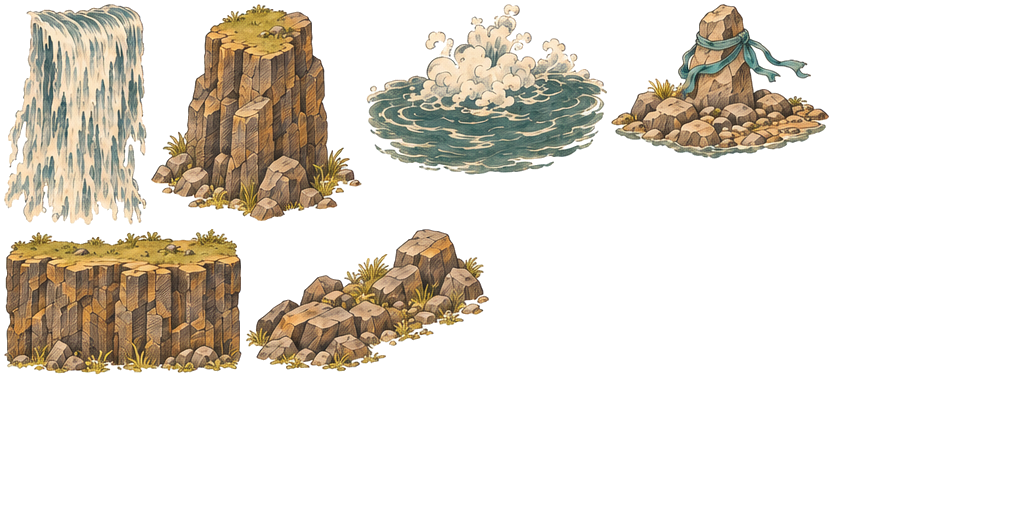
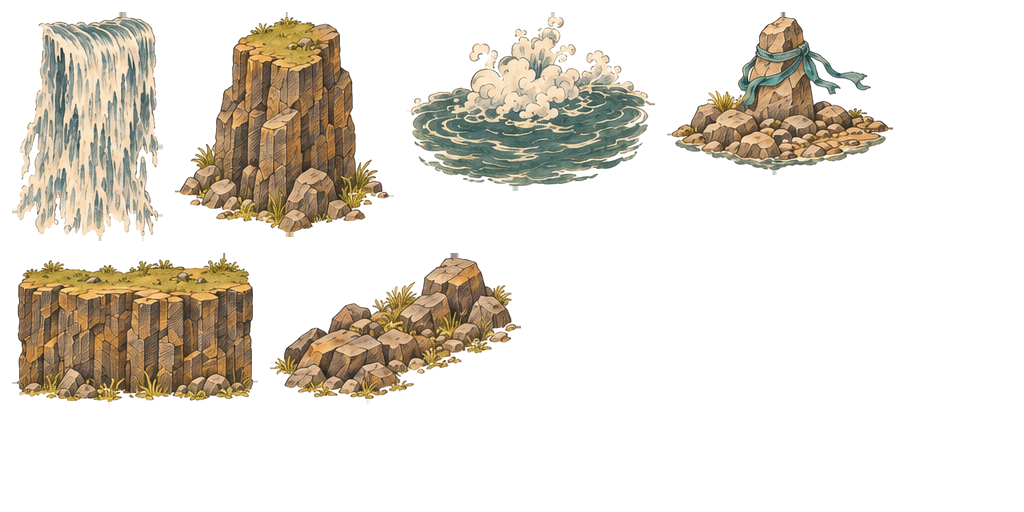
Share one mipmapped kit texture for Orkhon cliffs and cutouts; pad the kit atlas
bh-72 findings 7 and 10. Cliff walls sampled a second, unmipmapped copy of
the terrain kit atlas, so distant walls skipped texels and shimmered, and
the atlas was uploaded twice. Walls and the overlay's kit cutouts now share
one mipmapped, anisotropically filtered texture. Walls sample it with
gradients from the continuous distance along the outline (taken outside any
branch), so band restarts do not fall to a blurred mip level.

The kit atlas kept frames apart only to mip level 1 with 4-texel gutters.
It is repacked with 16 padding texels and 4 extruded (the layout of
atlas:assemble --padding 16 --extrude 4, now also what the cut script
writes); every frame's pixels are byte-identical, and re-running the cut
script reproduces the atlas and leaves every tile unchanged. atlas:orkhon
now passes mip-bleed to level 3; its white-fringe failure is the keying
job. Kit cutouts use alpha to coverage with alpha raised a quarter per mip
level, so thin parts keep their coverage at distance.

The fight at pixel ratio 2 stays about 3% slower than before the terrain
pass.

diff --git a/src/game/world3d/terrainShader.ts b/src/game/world3d/terrainShader.ts
@@ -144,8 +144,10 @@ export const ORKHON_SAMPLING = `
   uniform vec4 rampAxis[ORKHON_RAMPS]; uniform vec4 rampSize[ORKHON_RAMPS];
   // Authored cliffs repeat opaque basalt bands cut from the terrain kit's straight cliff run along
   // their outline. Each repeat picks a band, never mirrored, so the painted light stays upper left;
-  // the grass lip and inked column tops stay on top.
-  vec3 cliffFace(float along, float depth) {
+  // the grass lip and inked column tops stay on top. The kit texture is mipmapped; its sampling
+  // gradients come from the continuous along and depth (their screen derivatives, taken outside
+  // any branch), so a band restart does not drop to a blurred mip level.
+  vec3 cliffFace(float along, float depth, vec2 dAlong, vec2 dDepth) {
     float u=along/cliffPixel;
     float k=floor(u/cliffFaceWidth);
     float pick=fract(sin(k*12.9898+4.1)*43758.5453);
@@ -154,7 +156,9 @@ export const ORKHON_SAMPLING = `
     float x=u-k*cliffFaceWidth;
     float y=clamp(depth/cliffRise,0.0,1.0)*face.z;
     vec2 px=face.xy+vec2(clamp(x,0.5,cliffFaceWidth-0.5),clamp(y,0.5,face.z-0.5));
-    return texture2D(cliffAtlas,vec2(px.x/cliffAtlasSize.x,1.0-px.y/cliffAtlasSize.y)).rgb;
+    vec2 scale=vec2(1.0/cliffPixel,-face.z/cliffRise)/cliffAtlasSize;
+    return textureGrad(cliffAtlas,vec2(px.x/cliffAtlasSize.x,1.0-px.y/cliffAtlasSize.y),
+      vec2(dAlong.x,dDepth.x)*scale,vec2(dAlong.y,dDepth.y)*scale).rgb;
   }
   // Ramp flanks run their bands along the nearest ramp's own arc length (orkhonFlankAlong), so
   // the bands keep their painted width instead of shearing where the normal's dominant axis
@@ -169,6 +173,21 @@ export const ORKHON_SAMPLING = `
       along=(dot(vec2(-n.z,n.x),d)>=0.0?s:-s)+float(i)*397.0;
     }
     return along;
+  }
+  // Screen derivatives of a flank's along (orkhonFlankAlong): ± the ramp direction, or x or z.
+  vec2 orkhonFlankGradient(vec2 p, vec3 n, vec3 dx, vec3 dy, bool ramp) {
+    vec2 axis=step(abs(n.z),abs(n.x))>0.5?vec2(0.0,1.0):vec2(1.0,0.0);
+    if(ramp) {
+      float best=1e9;
+      for(int i=0;i<ORKHON_RAMPS;i++) {
+        vec2 q=p-rampAxis[i].xy; vec2 d=rampAxis[i].zw; float len=rampSize[i].x;
+        float s=dot(q,d), lateral=abs(dot(q,vec2(-d.y,d.x)));
+        if(lateral>rampSize[i].z+40.0 || s<-0.3*len || s>1.3*len || lateral>=best) continue;
+        best=lateral;
+        axis=dot(vec2(-n.z,n.x),d)>=0.0?d:-d;
+      }
+    }
+    return vec2(dot(dx.xz,axis),dot(dy.xz,axis));
   }
   // Per-pixel weights of valley grass, trail dirt, scree and straw (wA) and plateau moss (wMoss):
   // worn earth and dry-grass potential come from the baked ground mask; plateau tops from
@@ -265,6 +284,9 @@ export const ORKHON_SAMPLING = `
 
 export const ORKHON_COLOR = `
   vec3 n=normalize(worldNormal);
+  // Derivatives for the painted cliff bands, taken where every pixel of a quad runs them.
+  vec3 pointDx=dFdx(worldPoint), pointDy=dFdy(worldPoint);
+  vec2 faceDx=dFdx(materialB.xy), faceDy=dFdy(materialB.xy);
   if(worldDebug<=1) {
     vec3 surface;
     if(isWall==0) {
@@ -293,10 +315,13 @@ export const ORKHON_COLOR = `
       // Steep graded ground (ramp flanks) shows the same basalt bands as the plateau walls.
       if(n.y<0.75) {
         float along=mix(worldPoint.x,worldPoint.z,step(abs(n.z),abs(n.x)));
-        if(texture2D(groundMask,worldPoint.xz/worldSize).b>0.5) along=orkhonFlankAlong(worldPoint.xz,n,along);
-        surface=mix(surface,cliffFace(along,cliffTop-worldPoint.y),smoothstep(0.75,0.5,n.y));
+        bool ramp=texture2D(groundMask,worldPoint.xz/worldSize).b>0.5;
+        if(ramp) along=orkhonFlankAlong(worldPoint.xz,n,along);
+        vec2 dAlong=orkhonFlankGradient(worldPoint.xz,n,pointDx,pointDy,ramp);
+        surface=mix(surface,cliffFace(along,cliffTop-worldPoint.y,dAlong,-vec2(pointDx.y,pointDy.y)),
+          smoothstep(0.75,0.5,n.y));
       }
-    } else if(materialB.z>0.5) surface=cliffFace(materialB.x,materialB.y);
+    } else if(materialB.z>0.5) surface=cliffFace(materialB.x,materialB.y,vec2(faceDx.x,faceDy.x),vec2(faceDx.y,faceDy.y));
     else {
       vec3 tri=pow(abs(n),vec3(5.0)); tri/=max(0.001,tri.x+tri.y+tri.z);
       surface=texture2D(stone,worldPoint.zy/tileSize).rgb*tri.x+texture2D(stone,worldPoint.xz/tileSize).rgb*tri.y+

diff --git a/src/game/world3d/orkhonOverlay.ts b/src/game/world3d/orkhonOverlay.ts
@@ -17,6 +17,7 @@ import { ART_SPEC } from '../data/artSpec';
 import { ORKHON_VALLEY } from '../data/orkhonValley';
 import type { TerrainPoint } from '../terrain/types';
 import type { ComposedTerrain } from './ComposedTerrain';
+import { orkhonKitTexture } from './orkhonCliffs';
 import { WORLD_3D } from './worldProjection';
 
 type Vec3 = readonly [number, number, number];
@@ -333,9 +334,9 @@ export function orkhonBanks(terrain: ComposedTerrain): BankStrip[] {
 }
 
 /**
- * Texture from a loaded Phaser image. Terrain kit art keeps full sheet resolution, so it is
- * often drawn smaller than painted: it is mipmapped (and bank bands, which lie on the slanted
- * ground, anisotropically filtered) so it stays clean instead of shimmering.
+ * Texture from a loaded Phaser image. Bank bands keep full sheet resolution and lie on the slanted
+ * ground, so they are mipmapped (and anisotropically filtered) to stay clean instead of
+ * shimmering. The terrain kit atlas is shared with the cliff walls (`orkhonKitTexture`).
  */
 function paintedTexture(scene: Phaser.Scene, key: string, mipmaps: boolean): THREE.Texture {
   const texture = new THREE.Texture(scene.textures.get(key).getSourceImage() as HTMLImageElement);
@@ -370,10 +371,13 @@ export class OrkhonOverlay {
 
   private addSprites(scene: Phaser.Scene, atlasKey: string, pieces: OverlayPiece[]): void {
     const atlas = scene.textures.get(atlasKey);
-    const texture = paintedTexture(scene, atlasKey, atlasKey === ORKHON_KIT_ATLAS);
+    const kit = atlasKey === ORKHON_KIT_ATLAS;
+    const texture = kit ? orkhonKitTexture(scene) : paintedTexture(scene, atlasKey, false);
     const material = new THREE.MeshBasicMaterial({
       map: texture,
       alphaTest: 0.5,
+      // Kit cutouts are mipmapped: alpha to coverage antialiases their keyed outline.
+      alphaToCoverage: kit,
       side: THREE.DoubleSide,
       polygonOffset: true,
       polygonOffsetFactor: -2,
@@ -391,7 +395,17 @@ export class OrkhonOverlay {
         );
       shader.fragmentShader = `varying vec2 vSpriteUv;\n${shader.fragmentShader}`.replace(
         '#include <map_fragment>',
-        `if (any(lessThan(vSpriteUv, vec2(0.0))) || any(greaterThan(vSpriteUv, vec2(1.0)))) discard;
+        `${
+          kit
+            ? `// Mip levels average a cutout's alpha down, so thin parts would fall below the
+        // alpha test and vanish at distance: scale alpha up a quarter per level (computed before
+        // any discard, while derivatives are defined).
+        vec2 texel = vMapUv * vec2(textureSize(map, 0));
+        float mipScale = 1.0 + 0.25 * max(0.0, 0.5 * log2(max(dot(dFdx(texel), dFdx(texel)),
+          dot(dFdy(texel), dFdy(texel)))));`
+            : ''
+        }
+        if (any(lessThan(vSpriteUv, vec2(0.0))) || any(greaterThan(vSpriteUv, vec2(1.0)))) discard;
         ${
           jagged
             ? `vec2 g = vSpriteUv * 9.0, i = floor(g), f = fract(g);
@@ -403,10 +417,11 @@ export class OrkhonOverlay {
         if (min(edge.x, edge.y) < 0.015 + 0.11 * jag) discard;`
             : ''
         }
-        #include <map_fragment>`,
+        #include <map_fragment>
+        ${kit ? 'diffuseColor.a = min(1.0, diffuseColor.a * mipScale);' : ''}`,
       );
     };
-    material.customProgramCacheKey = () => `orkhon-overlay-v4-${jagged}`;
+    material.customProgramCacheKey = () => `orkhon-overlay-v5-${jagged}`;
     const positions: number[] = [],
       uvs: number[] = [],
       local: number[] = [];

diff --git a/src/game/world3d/orkhonCliffs.ts b/src/game/world3d/orkhonCliffs.ts
@@ -18,9 +18,34 @@ export function cliffFacePixel(rise = ORKHON_VALLEY.rise): number {
   return (rise * Math.cos((WORLD_3D.angle * Math.PI) / 180)) / tallest;
 }
 
+const kitTextures = new WeakMap<object, THREE.Texture>();
+
 /**
- * Shader inputs for the painted Orkhon cliff walls: the terrain kit atlas and each face band's source
- * rectangle in atlas pixels. Without a scene the uniforms are inert placeholders.
+ * The terrain kit atlas as one texture shared by the cliff walls and the overlay cutouts, so it is
+ * uploaded once. It is mipmapped and anisotropically filtered: walls and cutouts are often drawn
+ * smaller than painted, and their texels are then averaged instead of skipped (shimmer). Frames
+ * have 16 padding texels with 4 extruded (`scripts/cut-orkhon-terrain-kit.mjs`), so filtering
+ * stays inside each frame down to mip level 3.
+ */
+export function orkhonKitTexture(scene: Phaser.Scene): THREE.Texture {
+  const image = scene.textures.get(ORKHON_KIT_ATLAS).getSourceImage() as HTMLImageElement;
+  let texture = kitTextures.get(image);
+  if (!texture) {
+    texture = new THREE.Texture(image);
+    texture.colorSpace = THREE.SRGBColorSpace;
+    texture.minFilter = THREE.LinearMipmapLinearFilter;
+    texture.magFilter = THREE.LinearFilter;
+    texture.generateMipmaps = true;
+    texture.anisotropy = WORLD_3D.anisotropy;
+    texture.needsUpdate = true;
+    kitTextures.set(image, texture);
+  }
+  return texture;
+}
+
+/**
+ * Shader inputs for the painted Orkhon cliff walls: the shared kit texture and each face band's
+ * source rectangle in atlas pixels. Without a scene the uniforms are inert placeholders.
  */
 export function cliffFaceUniforms(scene?: Phaser.Scene) {
   const faces = ORKHON_CLIFF_FACES.map(() => new THREE.Vector4());
@@ -29,12 +54,7 @@ export function cliffFaceUniforms(scene?: Phaser.Scene) {
   if (scene) {
     const source = scene.textures.get(ORKHON_KIT_ATLAS);
     const image = source.getSourceImage() as HTMLImageElement;
-    atlas = new THREE.Texture(image);
-    atlas.colorSpace = THREE.SRGBColorSpace;
-    atlas.minFilter = THREE.LinearFilter;
-    atlas.magFilter = THREE.LinearFilter;
-    atlas.generateMipmaps = false;
-    atlas.needsUpdate = true;
+    atlas = orkhonKitTexture(scene);
     size.set(image.width, image.height);
     ORKHON_CLIFF_FACES.forEach((face, i) => {
       const frame = source.get(face.sprite);

diff --git a/tests/unit/orkhonValleyLevel.test.ts b/tests/unit/orkhonValleyLevel.test.ts
@@ -536,6 +536,20 @@ describe('Orkhon Valley painted scene', () => {
     }
   });
 
+  it('packs the mipmapped kit atlas with 16 clear texels around every frame', () => {
+    const atlas = atlasJson(ORKHON_KIT_ATLAS);
+    const frames = Object.values(atlas.frames).map(({ frame }) => frame);
+    const { w, h } = atlas.meta.size;
+    for (const a of frames) {
+      expect(Math.min(a.x, a.y, w - a.x - a.w, h - a.y - a.h)).toBeGreaterThanOrEqual(16);
+      for (const b of frames)
+        if (a !== b) {
+          const gap = Math.max(b.x - a.x - a.w, a.x - b.x - b.w, b.y - a.y - a.h, a.y - b.y - b.h);
+          expect(gap).toBeGreaterThanOrEqual(16);
+        }
+    }
+  });
+
   it('wears every ramp bare across its walkable width', () => {
     for (const plateau of ORKHON_VALLEY.plateaus)
       for (const ramp of plateau.ramps) {

diff --git a/docs/orkhon-valley.md b/docs/orkhon-valley.md
@@ -105,9 +105,12 @@ repainting, recolouring or tinting:
 - **Cutouts:** the white backing is keyed out where it connects to the cell border; partly
   white edge texels get partial alpha and are un-mixed from white, so no white fringe remains
   around the ink. Specks of grid antialiasing are dropped, transparent texels take nearby
-  paint, and cutouts keep full sheet resolution in `orkhon-terrain-kit.png`. Because kit art
-  is often drawn smaller than painted, the kit atlas, bank bands and ground tiles are
-  mipmapped (ground and banks also anisotropically filtered), so they stay clean, not shimmering.
+  paint, and cutouts keep full sheet resolution in `orkhon-terrain-kit.png`, packed with 16
+  padding texels and 4 extruded around each frame. Because kit art is often drawn smaller than
+  painted, the kit atlas, bank bands and ground tiles are mipmapped and anisotropically
+  filtered, so they stay clean, not shimmering. Cliff walls and kit cutouts share one kit
+  texture (`orkhonKitTexture`); cutouts use alpha to coverage, with their alpha raised a quarter
+  per mip level so thin parts do not erode at distance.
 
 | Sheet cell                         | Used for                                                   |
 | ---------------------------------- | ---------------------------------------------------------- |
@@ -145,7 +148,9 @@ waterfall top lip (a self-contained miniature fall about half the plateau rise).
   picks one band, never mirrored, so painted light stays from the upper left. A band's rows
   span the full 240-unit rise, which also fits the painting's near-isometric wall to the 48°
   camera; its columns keep that pixel size (about 1.4 units) on screen for walls facing the
-  camera. Walls are lit like the rest of the terrain.
+  camera. Walls sample the shared, mipmapped kit texture with gradients taken from the
+  continuous distance along the outline, so a band restart does not fall to a blurred mip
+  level. Walls are lit like the rest of the terrain.
 - **Ramps:** each ramp is graded ground worn bare across its walkable width (trail dirt),
   rising through a trench of steep flanks. Trails end at the ramp feet; the ramp's own wear
   (`rampWear`) ends at the head of the cut, where the ramp meets the plateau top, so no worn
@@ -245,7 +250,9 @@ water probe grid. The authored ground shader fetches only the tiles present at e
 and returns single-channel grass, most of the ground, without blending; cliff walls fetch
 one band texel. Height blending still costs more per pixel than a cross-fade: on a
 software GPU (SwiftShader) a 350-enemy `profileCrowd` frame is roughly a tenth slower than
-before the cliff and ground pass, with CPU simulation and render time unchanged.
+before the cliff and ground pass, with CPU simulation and render time unchanged. Per-pixel
+masks, hex-tile sampling, ramp flanks and mipmapped cliffs cost about 3–5% of that frame at
+pixel ratio 2 on an Intel Iris Xe (ANGLE/Vulkan), and about 1 ms in terrain-only views.
 
 The terrain kit adds one 1024 × 512 atlas and two bank textures; the pack atlas lost the
 retired sprites. Full-resolution 256-pixel tiles hold four times the texels of the pack's

diff --git a/docs/art-spec.md b/docs/art-spec.md
@@ -84,7 +84,11 @@ on the ground; single stones and boulders stay between knee and shoulder of a ri
 - Cliff walls are geometry painted with opaque basalt bands from the terrain kit's straight
   cliff run (`ORKHON_CLIFF_FACES`); a band's 117 source rows span the full rise, and its
   100-pixel columns keep that texel size (about 1.4 units) on screen. The grass lip and inked
-  column tops stay on top.
+  column tops stay on top. Walls and ramp flanks sample the kit atlas mipmapped and
+  anisotropically filtered (one texture shared with the kit cutouts), so distant walls average
+  their texels instead of shimmering. At 1.4 units per texel the bands are still about 1.8 times
+  coarser than the ground tiles beside them; new cliff art should be painted nearer 0.8 units
+  per texel.
 - Plateau tops weather by at most ±11 units, so each stays one level; the valley's relief is
   0.35 of the composed default.
 
@@ -119,6 +123,11 @@ on the ground; single stones and boulders stay between knee and shoulder of a ri
 
 - Cutouts are real alpha on transparent gutters. Orkhon pack sprites carry a **2.3–2.8 px**
   soft edge (partially transparent texels per outline texel) and no paint touches the frame edge.
+- Mipmapped atlases (the terrain kit) keep **16 transparent texels** between frames and to the
+  atlas edge, with each frame's edge texels extruded 4 into them, so filtering stays inside a
+  frame down to mip level 3 (`npm run atlas:orkhon`, mip-bleed). Kit cutouts are drawn with
+  alpha to coverage, their alpha raised a quarter per mip level so thin parts keep their
+  coverage at distance.
 - Terrain kit cutouts were painted on white: `scripts/cut-orkhon-terrain-kit.mjs` keys out only
   white connected to the cell border and un-mixes partly white edge texels from white, so no
   white fringe remains around the ink (0.25–0.4 px of partial alpha per outline texel).
